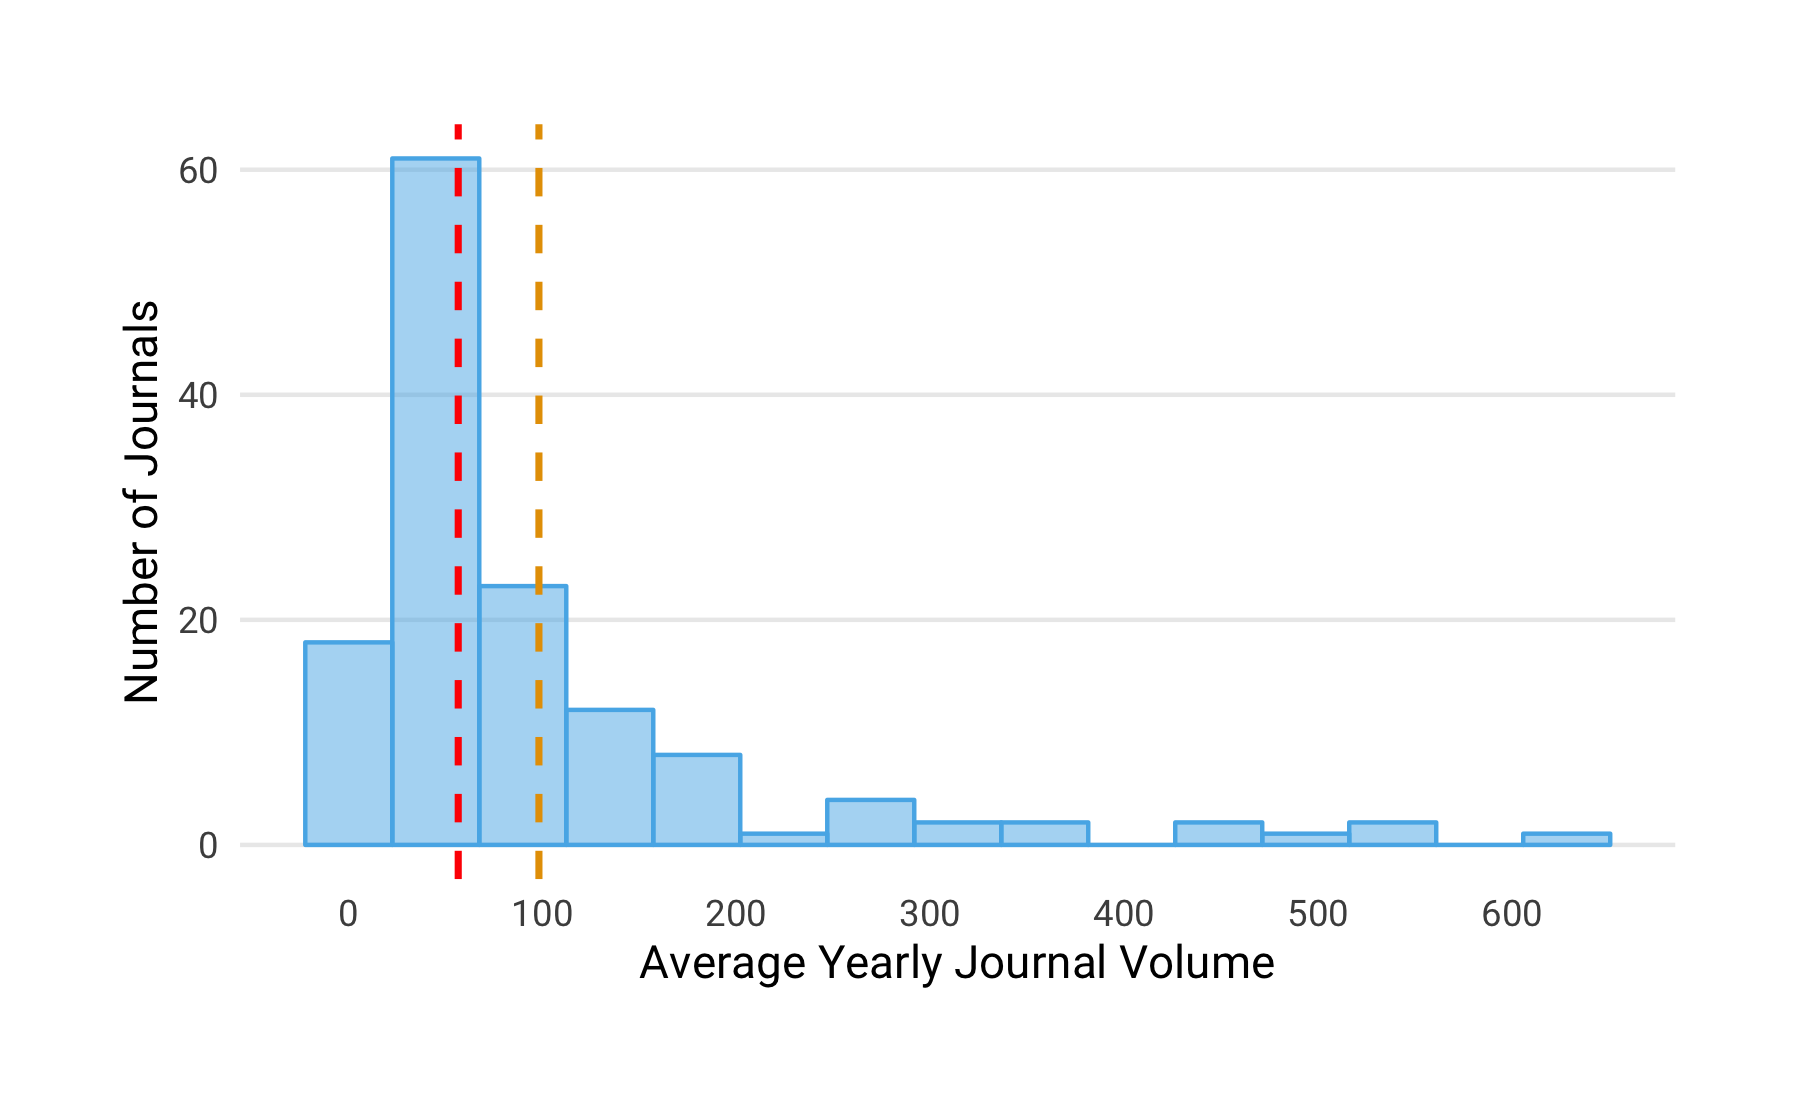
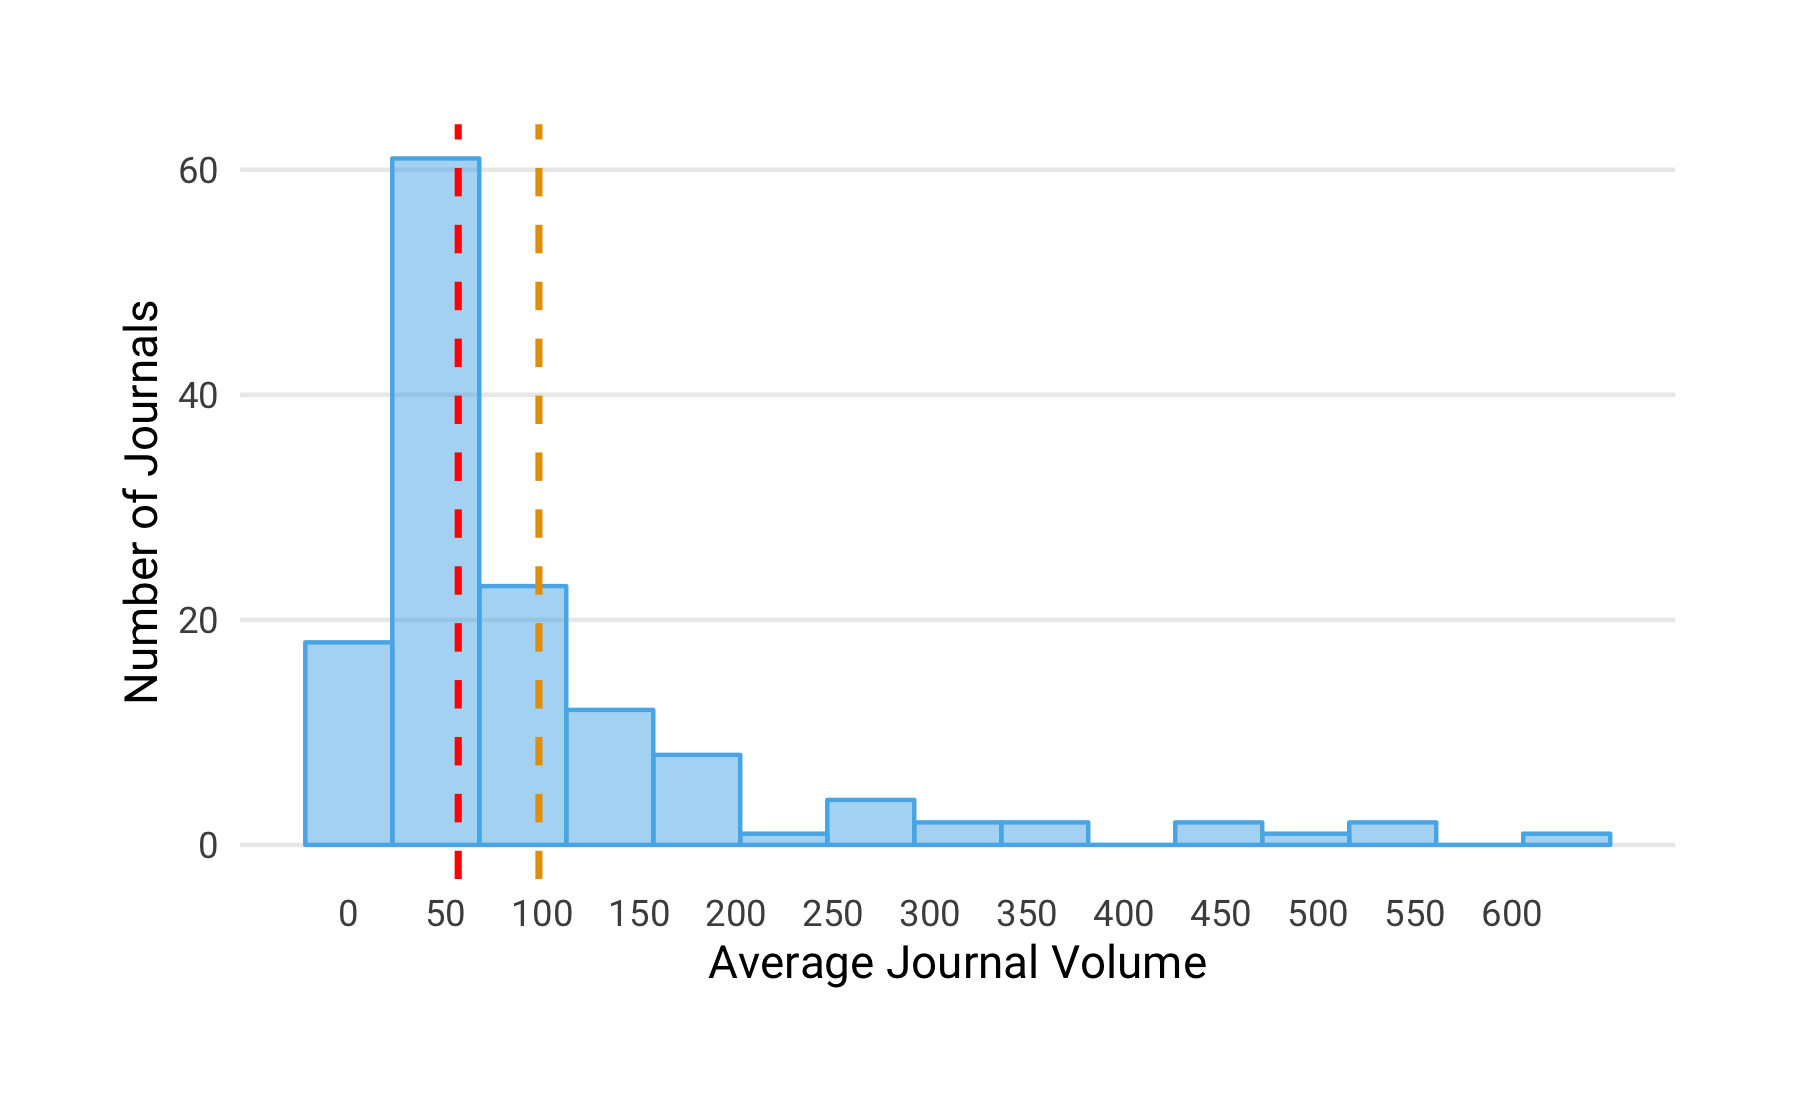
some fixes from @lmatthia and mikael

Changed region(s): [[0.3422, 0.795, 0.7156, 0.8867], [0.7778, 0.795, 0.8089, 0.8255], [0.6533, 0.795, 0.6844, 0.8255]]

diff --git a/results.md b/results.md
@@ -12,36 +12,34 @@ output:
 
 ### Research Question 1: How many OA journals have reverse-flipped to a subscription model? 
  
-We identified 152 journals that converted from fully open access to a subscription model, including hybrid open access. While we discovered reverse-flips as early as 2005, the majority of journals changed their business model from 2013 onward (see Figure 3).
+We identified 152 journals that reverse-flipped from fully OA to a subscription model, including hybrid OA. While we discovered reverse-flips as early as 2005, the majority of journals changed their business model from 2013 onward (see Figure 3).
 
 
-![Number of journals converted from fully open access to a subscription-based business model per year.](results_files/figure-docx/time-1.png)
+![Number of journals converted from fully open access to a subscription-based business model per year](results_files/figure-docx/time-1.png)
 
 ### Research Question 2: To provide a general overview,
 
 #### a) How thoroughly are these journals currently indexed in major bibliometric databases (Web of Science, Scopus, PubMed)?
  
-We investigated the coverage of reverse-flip journals in the following four major bibliometric databases: Crossref, a large DOI registration agency for scholarly works, Scopus, Journal Citation Report (JCR) listing journals indexed in the Web of Science, and MEDLINE. This analysis is based at the journal-level by matching ISSN variants. We used the most current available journal lists and search indexes at the time of our analysis in January 2019. 
 
 
-
-In total, we found 147 journals that were indexed by at least one bibliometric databases examined, covering 97% of the journals in our study. Figure presents the number of reverse-flip journals that were indexed by each database together with the intersections with the other databases using the UpSet technique (<https://doi.org/10.1093/bioinformatics/btx364>). 
+We investigated the coverage of reverse-flip journals in four major bibliometric databases -- Crossref, a large DOI registration agency for scholarly works, Scopus, Journal Citation Report (JCR) listing journals indexed in the Web of Science, and MEDLINE -- to examine how discoverable articles from these journals are. Using the most up-to-date  journal lists and search indexes available as of January 2019, we matched the journals’ ISSN variants, and found
+that 147 journals were indexed by at least one these bibliometric databases, covering 97% of our sample. Figure visualizes the overlap and oversight of reverse-flip coverage between the different databases using the UpSet technique (<https://doi.org/10.1093/bioinformatics/btx364>). 
 Of the 147 reverse-flip journals, Crossref and Scopus covered most. Together with the Web of Science (JCR) they shared the largest number of journals (N = 83), of which 26 journals were also indexed by MEDLINE.
 
-
-![](results_files/figure-docx/unnamed-chunk-3-1.png)<!-- -->
+![Inclusion of reverse-flip journals in major bibliographic databases](results_files/figure-docx/unnamed-chunk-3-1.png)
 
 #### b) How many articles did these journals publish between 2000 and 2018?
 
 
 
-To obtain the journal publication volume, we retrieved the metadata for all articles indexed in Crossref from the year 2000 onwards. Specifically, Crossref provided the metadata for 137 out of 152 journals (90% of our sample). Our analysis shows that between 2000 and 2018, these journals published 190,951 articles, yet the yearly article volume varies considerably (see Figure 4), ranging from 10 to 638 with half of the journals publishing 56 or fewer articles per year. 
+To obtain the journal publication volume, we retrieved the metadata for all articles indexed in Crossref from the year 2000 onwards. Specifically, Crossref provided the metadata for 137 out of 152 journals (90% of our sample). Our analysis shows that between 2000 and 2018, these journals published 190,951 articles, yet the annual article volume varies considerably between the journals (see Figure ), ranging from 10 - 638 with half of the journals publishing 56 or fewer articles per year. 
 
 
 
-![Histogram of average journal size in terms of yearly article volume published. Red dashed line represents the median, yellow dashed lined the mean value of the distribution.](results_files/figure-docx/unnamed-chunk-6-1.png)
+![Histogram of the average article volume per year. The red dashed line represents the median and the yellow dashed line shows the mean value of the distribution](results_files/figure-docx/unnamed-chunk-6-1.png)
 
-#### c) To which academic disciplines do the journals belong to?
+#### c) Which academic disciplines do the journals belong to?
 
 
 
@@ -50,18 +48,18 @@ Table presents a breakdown by top-level discipline, highlighting that reverse fl
 
 Table: Breakdown of reverse flip journals by discipline
 
-Discipline    Reverse-flip Journals   Proportion (in %)
------------  ----------------------  ------------------
-PSM                              52                  34
-Health                           39                  26
-SSH                              38                  25
-LS                               23                  15
-Total                           152                 100
+Discipline                           Reverse-flip Journals   Proportion (in %)
+----------------------------------  ----------------------  ------------------
+Physical Sciences and Mathematics                       52                  34
+Health Sciences                                         39                  26
+Social Sciences and Humanities                          38                  25
+Life Sciences                                           23                  15
+Total                                                  152                 100
 
 
-#### d) Under which publisher did the reverse-flip occur? Who does currently publish the journals?
+#### d) Under which publisher did the reverse flip occur? Who currently publishes the journals?
 
-To investigate the extent of reverse flips across different publishers, we acquired the publisher names for every journal at the time of the reverse flip and that of the most current volume. Table x shows the post-flip and current top  publishers based on the number of journals that were converted from fully OA to subscription access. These six publishers - Elsevier, Springer Nature, Taylor & Francis, De Gruyter, Brill and Wiley - comprised 105 journals at the time of the reverse-flip and 104 at the time of the most recent volume, representing around 70% of all reverse-flips journals investigated. The remaining publishers are categorized as "Other". The distribution of reverse flips across publishers resembles the general conditions of the scholarly publishing market at-large, which is also dominated by large commercial publishers like Elsevier, Springer Nature, Taylor and Francis, and Wiley.
+To investigate the extent of reverse flips across different publishers, we acquired the publisher names for every journal at the time of the reverse flip and that of the most current volume. Table x shows the top publishers -- post-flip and currently -- based on the number of journals that were converted from fully OA to subscription access. We found that around 70% of all reverse flips in our sample  (N=105 and N=104 respectively) can be attributed to six  publishers alone -- Elsevier, Springer Nature, Taylor & Francis, De Gruyter, Brill and Wiley. The remaining publishers are categorized as "Other". <!-- The distribution of reverse flips across publishers resembles the general conditions of the scholarly publishing market at-large, which is also dominated by large commercial publishers like Elsevier, Springer Nature, Taylor and Francis, and Wiley. -->
 
 
 
@@ -175,7 +173,8 @@ We were able to obtain publication fee list prices before and after the flip inc
 ![APC list prices before and after the flip including most current level among reverse-flip journals.](results_files/figure-docx/unnamed-chunk-21-1.png)
 
 
-#### b) What is the uptake of hybrid OA articles; Was open access publication in reverse-flip journals enabled by transformative aggrements
+#### b) What is the uptake of hybrid OA articles; Was open access publication in reverse-flip journals enabled by transformative agreements?
+
 
 
 
